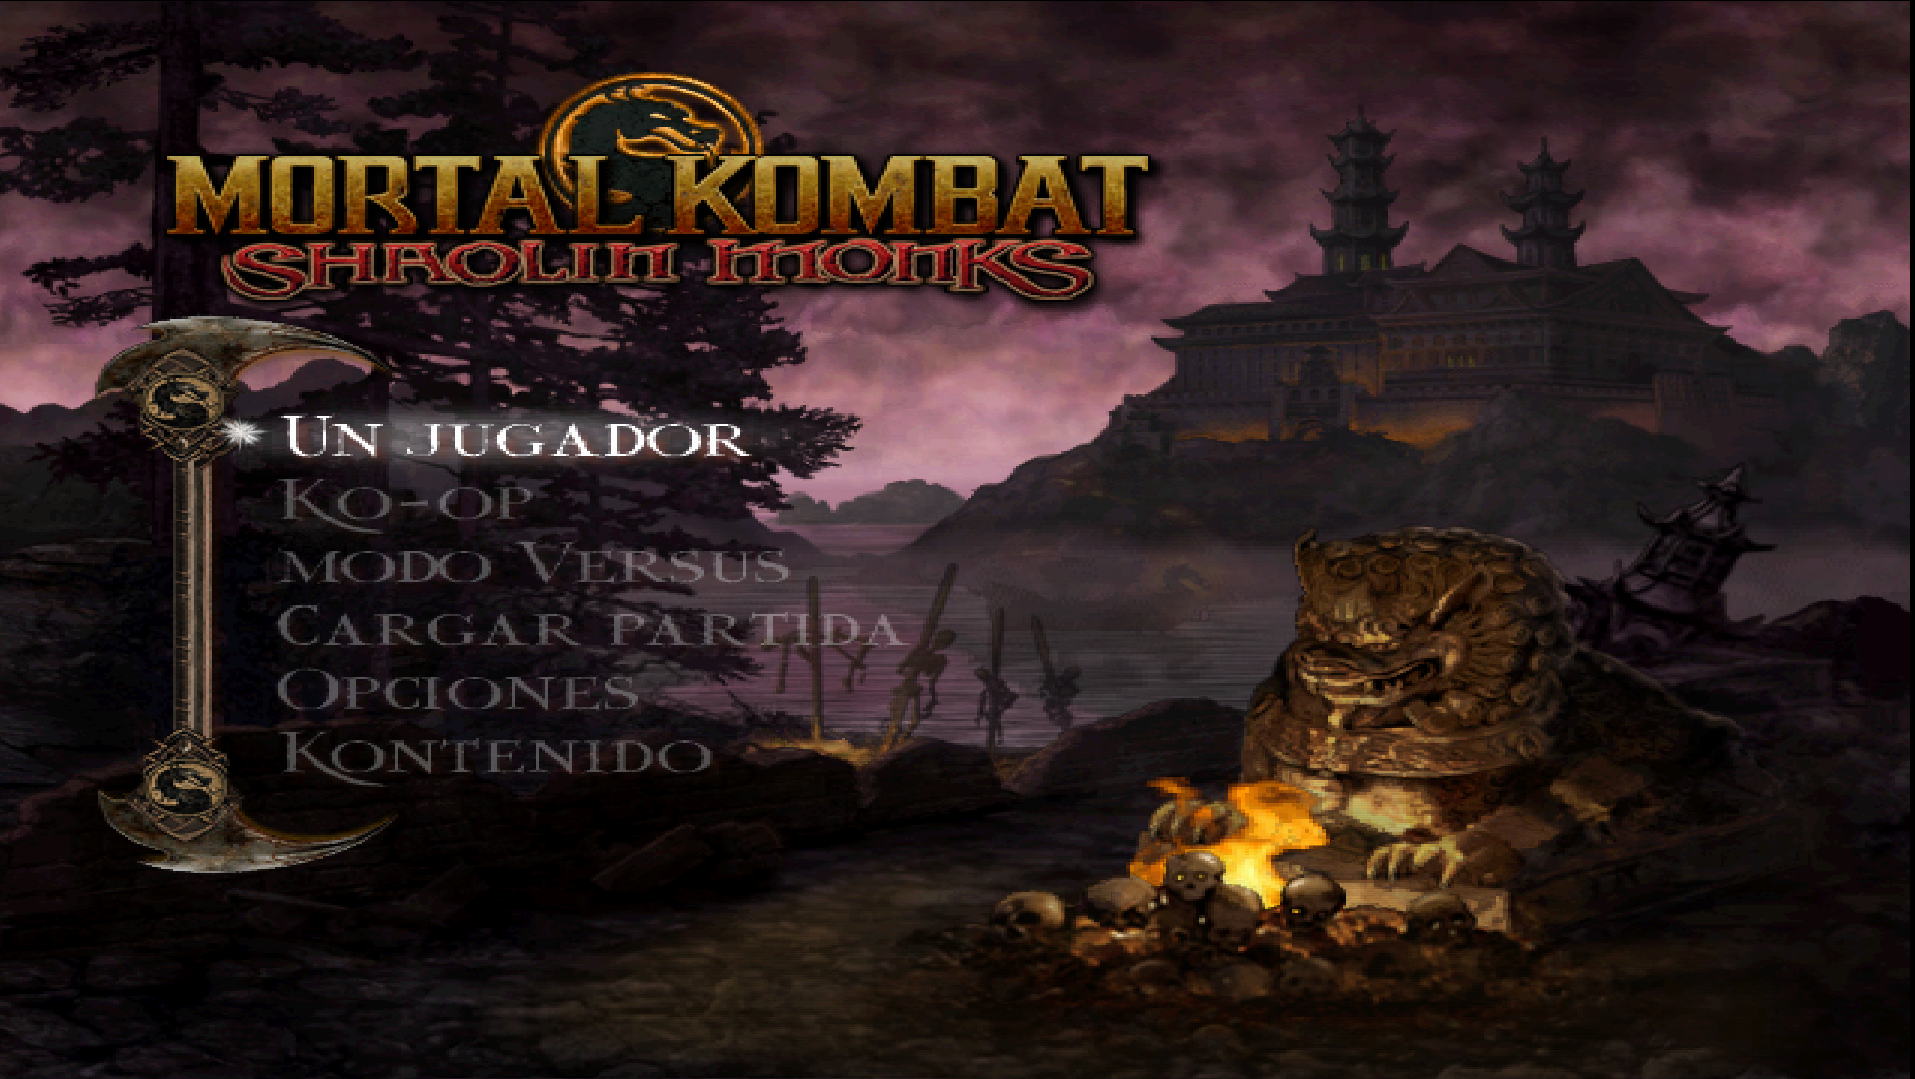
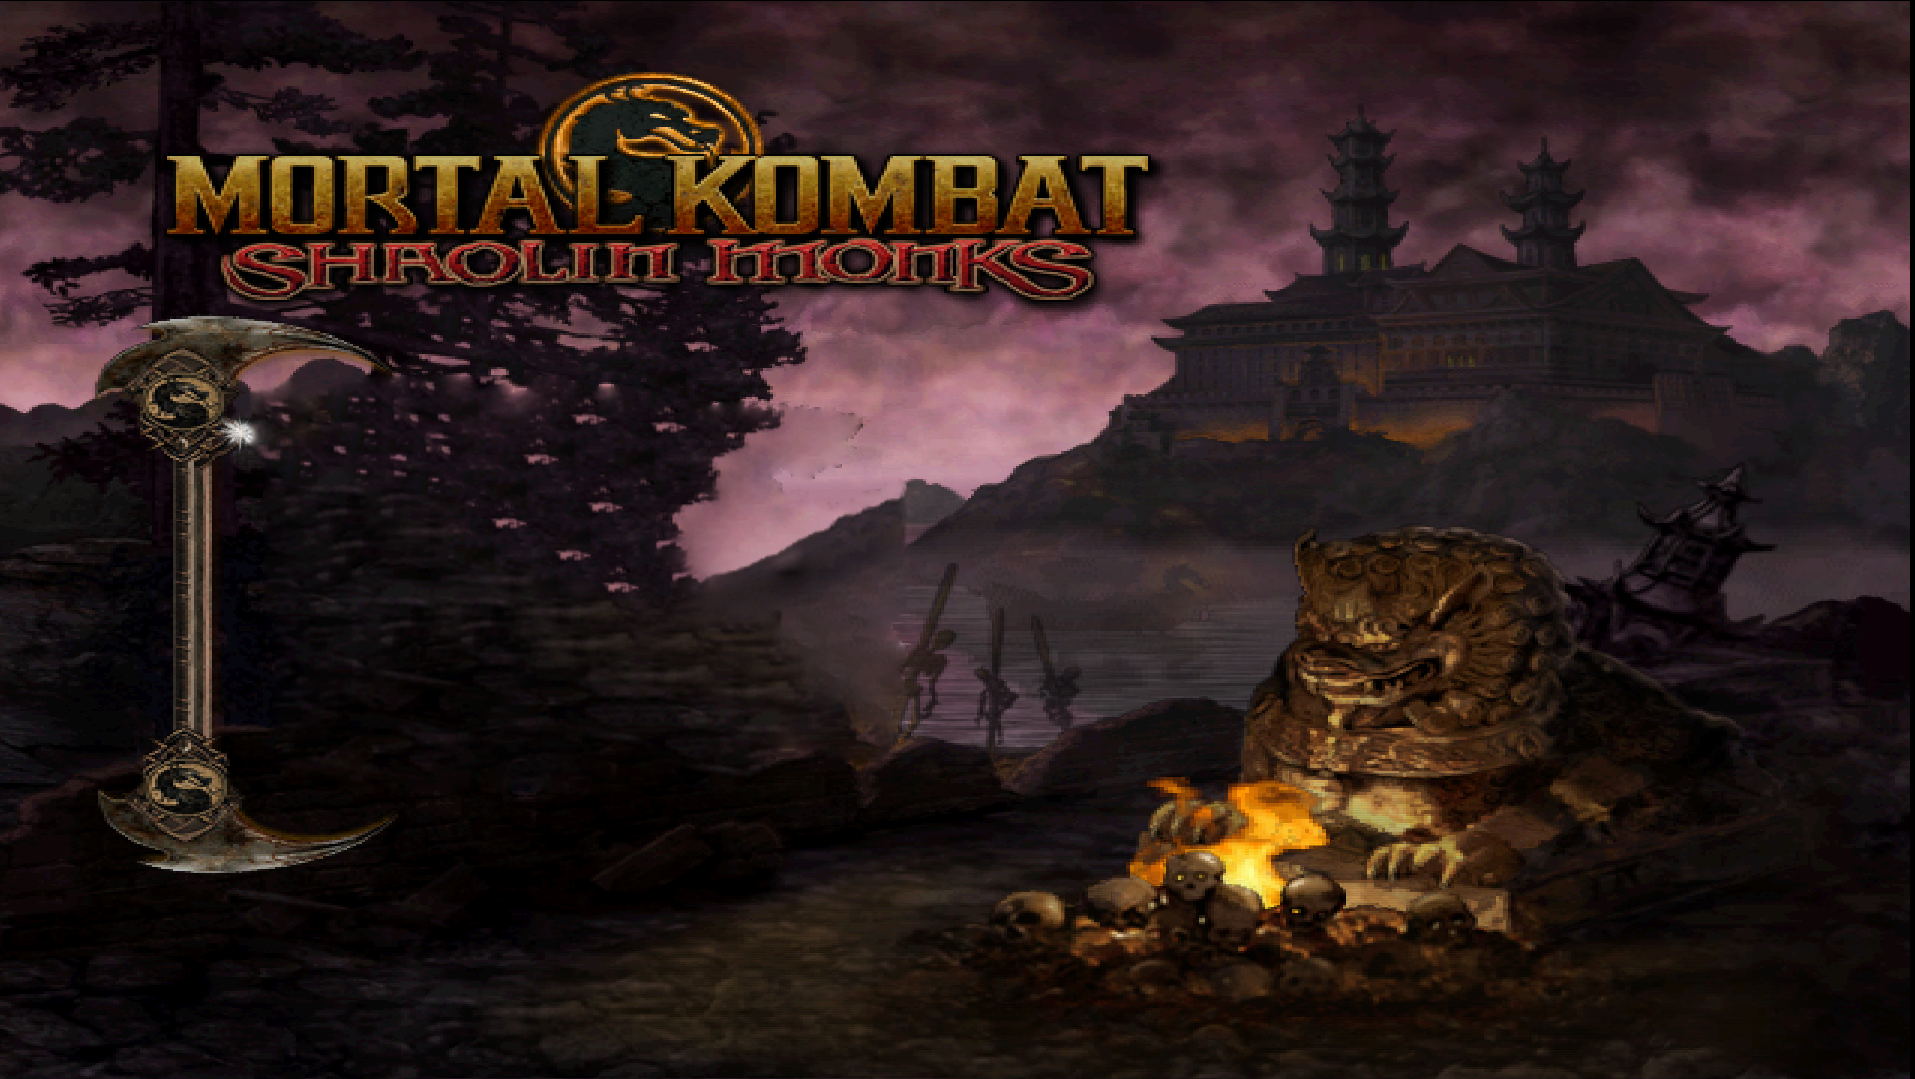
mejor organizacion y voy ordenando la funciones

Changed region(s): [[0.1232, 0.3364, 0.493, 0.734]]

diff --git a/Primerapantalla.html b/Primerapantalla.html
@@ -4,51 +4,23 @@
     <meta charset="UTF-8">
     <meta name="viewport" content="width=device-width, initial-scale=1.0">
     <title>primerapantalla</title>
-    <link rel="stylesheet" href="./style2.css">
+    <script src="./sonido_Menu.js" defer></script>
+    <script src="./funcion_pulsar.js" defer></script>
+    <link rel="stylesheet" href="./fondo.css">
+    <link rel="stylesheet" href="./boton.css">
     <style>
         body {
-            display: flex;
-            justify-content: center;
-            align-items: center;
-            height: 100vh;
-            margin: 0;
-            background: url('./img-fondos-personajes/caratrula\ inicio\ pulse\ el\ boton\ star.png');
-            background-size: cover;
-            color: white;
-            font-size: 24px;
-            font-family: Arial, sans-serif;
-            text-shadow: 2px 2px 4px rgba(0, 0, 0, 0.5);
+            background-image: url("./img-fondos-personajes/caratrula\ inicio\ pulse\ el\ boton\ star.png");
         }
     </style>
-    <script src="./sonido_Menu.js" defer></script>
 </head>
 </head>
 <body> 
     <button id="toggleButton">🔇 Apagar sonido</button>
-    <audio id="audio" src="./sonido/Mortal Kombat Shaolin Monks - Intro Theme.MP3" autoplay></audio>
+    <audio id="audio" src="./sonido/Mortal Kombat Shaolin Monks - Intro Theme.MP3" autoplay ></audio>
 
-   <!--  <script>
-        const audio = document.getElementById("audio");
-        const button = document.getElementById("toggleButton");
-
- 
-        window.onload = () => {
-            audio.play().catch(error => console.log("Reproducción automática bloqueada"));
-            button.textContent = "🔇 Apagar sonido";
-        };
-
-        function toggleSound() {
-            if (audio.paused) {
-                audio.play();
-                button.textContent = "🔇 Apagar sonido";
-            } else {
-                audio.pause();
-                button.textContent = "🔊 Encender sonido";
-            }
-        }
-
-        button.addEventListener("click", toggleSound);
-    </script>  -->
-   <a href="index.html"><button class="boton">PULSE PARA EMPEZAR</button></a>
+  
+   <a href="index.html"><button class="boton" id="primerBoton">PULSE CUALQUIER TECLA PARA EMPEZAR</button></a>
+  
 </body>
 </html>

diff --git a/index.html b/index.html
@@ -9,6 +9,11 @@
     <link href="https://fonts.googleapis.com/css2?family=Grechen+Fuemen&family=Shafarik&display=swap" rel="stylesheet">
     <script src="./sonido_Menu.js" defer></script>
     <script src="./sonido.js"></script> 
+    <style>
+        body {
+            background-image: url("./img-fondos-personajes/primera\ interfaz\ posible.png");
+        }
+    </style>
 </head>
 <body>
     <button id="toggleButton">🔇 Apagar sonido</button>
@@ -21,15 +26,6 @@
         <li ><a href="./Opciones.html">OpcioneS</a></li>
         <li ><a href="#">KontenidO</a></li>
     </ul>
-   <!--  <script>
-        // Función para reproducir el sonido
-        function reprosong() {
-            var sonido = document.getElementById("sonido");
-            sonido.currentTime = 0; // Reinicia el sonido al principio
-            sonido.play(); // Reproduce el sonido
-        }
-    </script> -->
-    <a href="">Lorem, ipsum dolor sit amet consectetur adipisicing elit. Soluta, obcaecati facilis sit inventore eum cum in perferendis quam distinctio odit iusto error molestiae, necessitatibus laboriosam, repellat deleniti. Accusantium, a quidem!</a>
 
 
 </body>

diff --git a/Opciones.html b/Opciones.html
@@ -4,19 +4,10 @@
     <meta charset="UTF-8">
     <meta name="viewport" content="width=device-width, initial-scale=1.0">
     <title>Document</title>
+    <link rel="stylesheet" href="./fondo.css">
     <style>
         body {
-            display: flex;
-            justify-content: center;
-            align-items: center;
-            height: 100vh;
-            margin: 0;
-            background: url('./img-fondos-personajes/no\ apagues\ sistema.png');
-            background-size: cover;
-            color: white;
-            font-size: 24px;
-            font-family: Arial, sans-serif;
-            text-shadow: 2px 2px 4px rgba(0, 0, 0, 0.5);
+            background-image: url("./img-fondos-personajes/menuOpciones.png");
         }
     </style>
 </head>

diff --git a/sonido_Menu.js b/sonido_Menu.js
@@ -1,11 +1,6 @@
  const audio = document.getElementById("audio");
         const button = document.getElementById("toggleButton");
 
-        window.onload = () => {
-            audio.play().catch(error => console.log("Reproducción automática bloqueada"));
-            button.textContent = "🔇 Apagar sonido";
-        };
-
         function toggleSound() {
             if (audio.paused) {
                 audio.play();

diff --git a/boton.css b/boton.css
@@ -1,0 +1,11 @@
+.boton {
+    font-family: Impact, Haettenschweiler, 'Arial Narrow Bold', sans-serif;
+    font-size: 30px;
+    color: rgb(231, 210, 202);
+    position: absolute;
+    top: 80%;  
+    left: 40%;
+    background-color: black;
+    border: none;
+
+}

diff --git a/fondo.css b/fondo.css
@@ -4,7 +4,7 @@ html, body {
     padding: 0;
 }
 body {
-    background-image: url("./img-fondos-personajes/Screenshot\ 2025-02-18\ 184043.png");
+    
     background-size: cover;
     background-position: center;
     background-repeat: no-repeat;

diff --git a/funcion_pulsar.js b/funcion_pulsar.js
@@ -1,0 +1,8 @@
+
+const boton = document.getElementById("primerBoton");
+
+document.addEventListener("keydown", prenderBoton);
+
+function prenderBoton() {
+    boton.click(); 
+};
